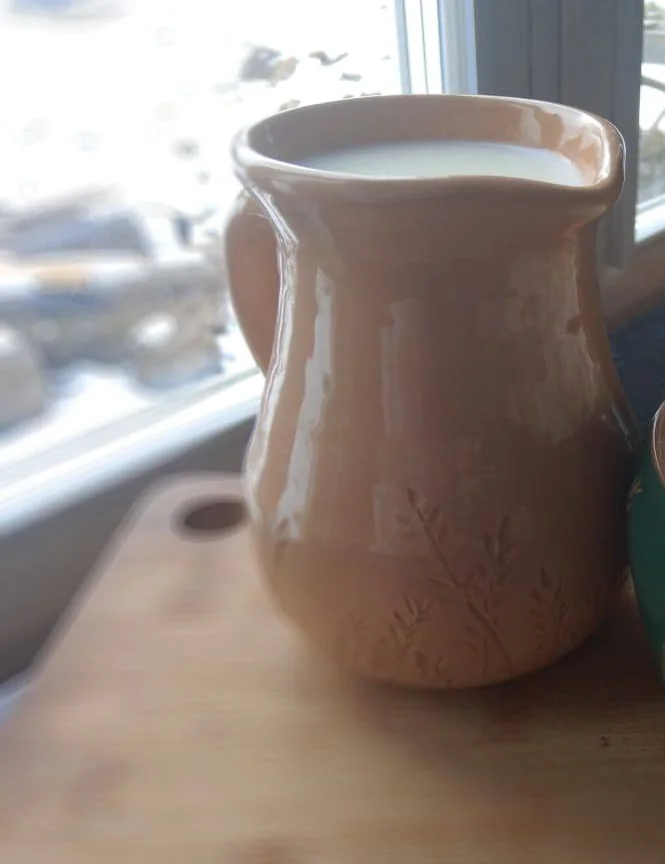
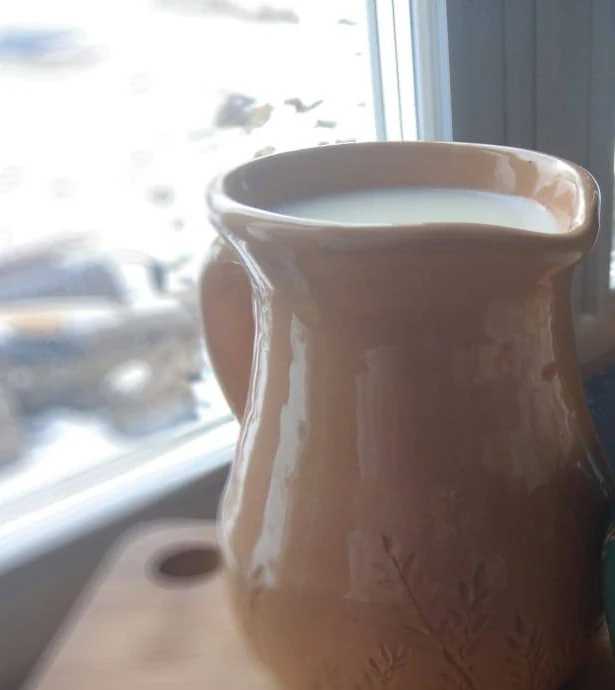
Исправить фото молока и убрать неверные фото продуктов.

diff --git a/index.html b/index.html
@@ -226,6 +226,14 @@
             transition: transform 0.3s ease;
         }
 
+        .product-image--milk {
+            object-position: 42% 18%;
+        }
+
+        .product:not(:has(.product-image-wrap)) .product-body {
+            padding: 60px 40px 0;
+        }
+
         .product:hover .product-image {
             transform: scale(1.03);
         }
@@ -732,14 +740,13 @@
             <h2 class="section-title">Продукция</h2>
             <div class="products-grid">
                 <div class="product">
-                    <div class="product-image-wrap"><img class="product-image" src="images/products/milk.webp" alt="Молоко" onerror="this.remove()"></div>
+                    <div class="product-image-wrap"><img class="product-image product-image--milk" src="images/products/milk.webp" alt="Молоко" onerror="this.remove()"></div>
                     <div class="product-body">
                         <h3 class="product-name">Молоко</h3>
                         <p class="product-desc">Очень вкусное, жирность 4,5%</p>
                     </div>
                 </div>
                 <div class="product">
-                    <div class="product-image-wrap"><img class="product-image" src="images/products/smetana.webp" alt="Сметана" onerror="this.remove()"></div>
                     <div class="product-body">
                         <h3 class="product-name">Сметана</h3>
                         <p class="product-desc">Как в детстве</p>
@@ -753,7 +760,6 @@
                     </div>
                 </div>
                 <div class="product">
-                    <div class="product-image-wrap"><img class="product-image" src="images/products/maslo.webp" alt="Масло" onerror="this.remove()"></div>
                     <div class="product-body">
                         <h3 class="product-name">Масло</h3>
                         <p class="product-desc">Отделяется при взбалтывании сливок в банке</p>
@@ -767,7 +773,6 @@
                     </div>
                 </div>
                 <div class="product">
-                    <div class="product-image-wrap"><img class="product-image" src="images/products/toplenoe-maslo.webp" alt="Топлёное масло" onerror="this.remove()"></div>
                     <div class="product-body">
                         <h3 class="product-name">Топлёное масло</h3>
                         <p class="product-desc">Золотистое, ароматное, по бабушкиному рецепту</p>
